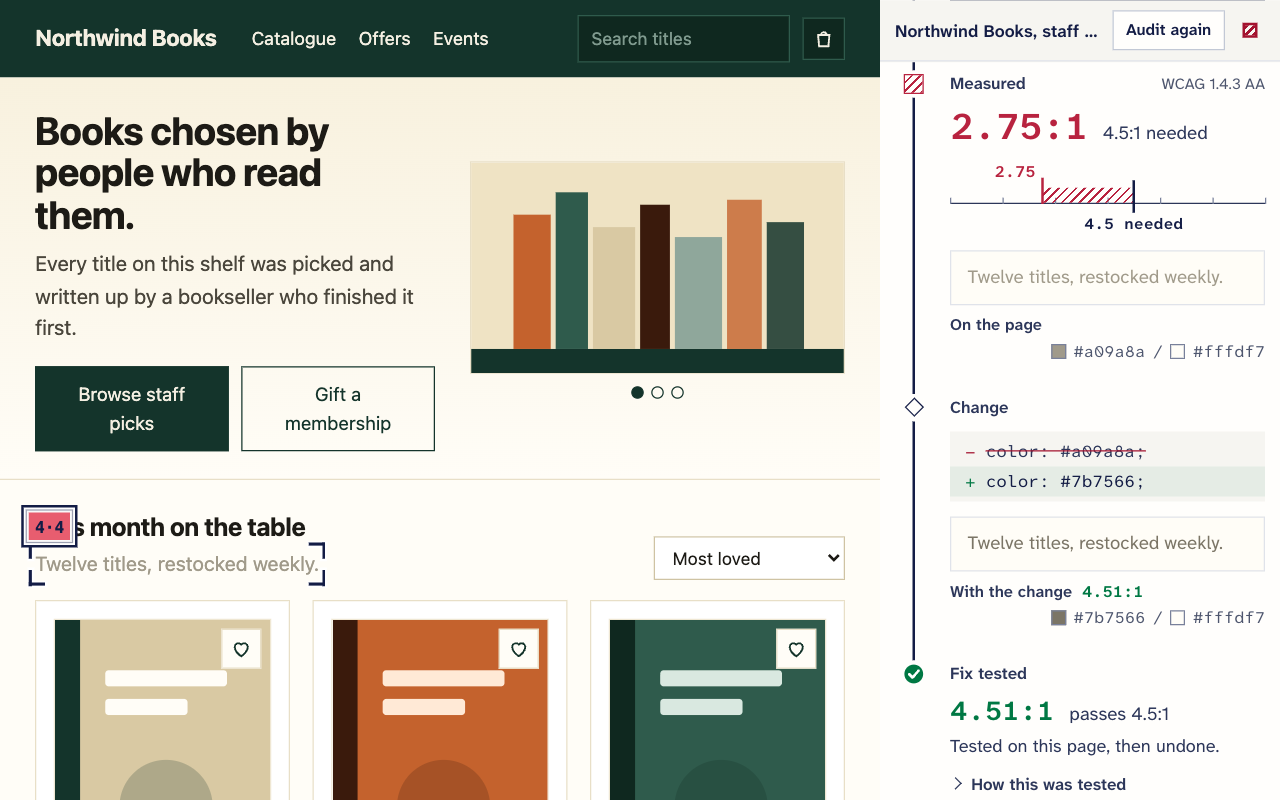
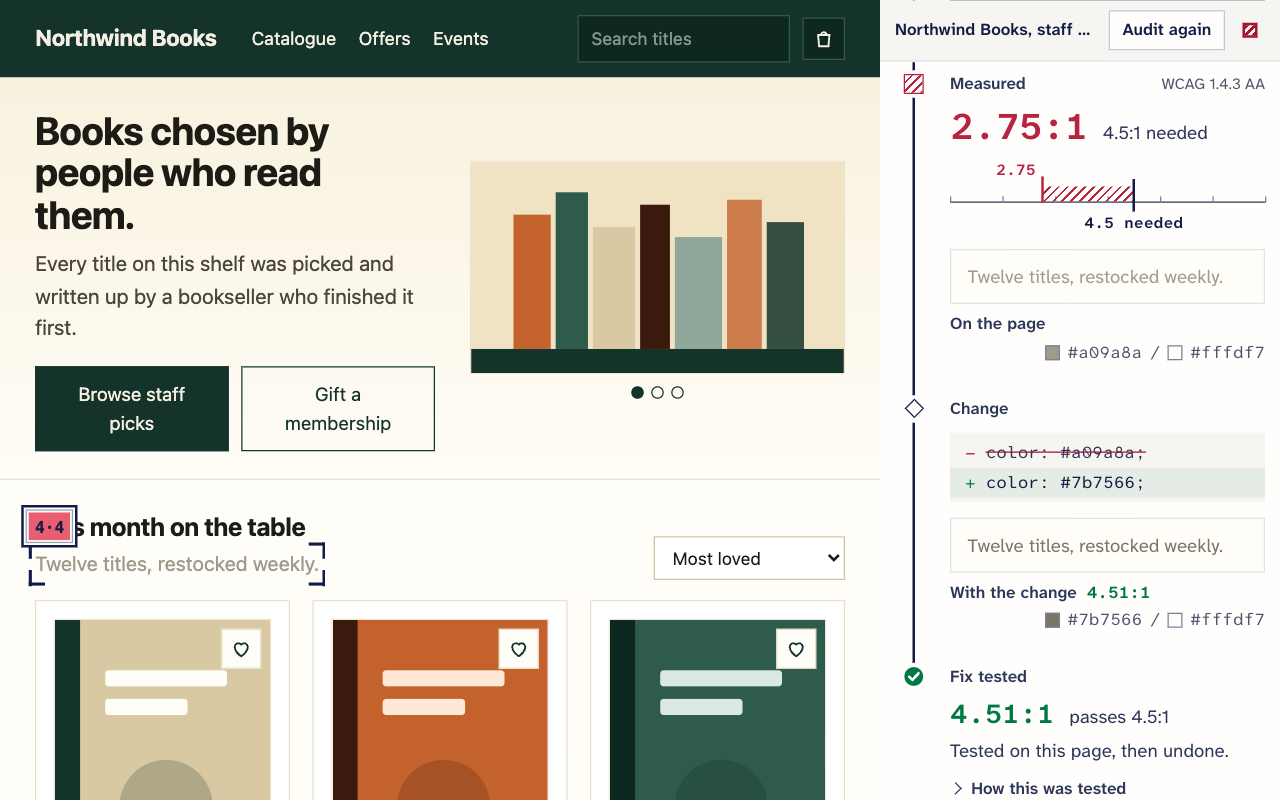
chore(extension): release 1.7.0
Bumps the extension to 1.7.0. It ships the finishing pass from #92 to the
panel: authored finding titles in both languages, a status only where it
tells something, the brand heading every state with an Audit this tab
button in the idle one, the standing in the bar only after the summary
scrolls away, one text scale, and focus rings limited to the current
element and its neighbors.

STORE-LISTING.md gets the new version and a note of what changed. The
three store screenshots are regenerated. The store descriptions do not
mention any of this and stay as they are.

diff --git a/extension/STORE-LISTING.md b/extension/STORE-LISTING.md
@@ -6,7 +6,7 @@ submitted automatically.
 ## Basics
 
 - **Item name:** AccessCheck
-- **Version:** 1.6.0
+- **Version:** 1.7.0
 - **Category:** Developer Tools
 - **Default language:** English (United States)
 - **Visibility:** Public
@@ -149,6 +149,38 @@ Certifications to accept, all of which the code supports:
 > Clicking the toolbar icon runs the whole audit, including the rules, the
 > extension's own checks and the fix verification, without attaching the
 > debugger at all.
+
+## What changed in 1.7.0
+
+- Findings have titles of their own, in English and Portuguese, instead of
+  axe-core's rule sentences: "Text below the minimum contrast" rather than
+  "Elements must meet minimum color contrast ratio thresholds". Manual reviews
+  and the checks that passed use the name of the check, such as "Text
+  contrast".
+- A finding row shows a status only when it tells something: fix tested, still
+  fails or audit again to confirm, always on its own line. The violet "needs a
+  person" mark no longer repeats on findings to fix, where it read like a
+  manual review.
+- The evidence step names the automated check instead of repeating axe-core's
+  description. For a manual review it says why the check could not be settled,
+  and the next step lists only how to check.
+- A finding with several elements leads with the first element of its largest
+  fix group, the same one the web report shows, so the measured value in the
+  row and the note on how the fix was tested speak of the same element.
+- Every state of the panel is headed by the AccessCheck mark. "Nothing audited
+  yet" has an Audit this tab button, and the running state has a title.
+- The standing appears in the bar only after the summary scrolls away, so the
+  page title is no longer cut short beside a copy of the heading.
+- The panel says once that the keyboard is not in the count until it is
+  checked, and the coverage note no longer repeats the list of checks under it.
+- With a focus finding open, hatched rings are drawn on the current element and
+  the ones beside it, instead of on every element at once.
+- The panel's text keeps to one scale, and the impact of a finding is no longer
+  set smaller than the text below it.
+- Smaller things: focus brackets clear the neighboring tags, suggested code
+  wraps between words, the open finding has a hairline above and below, hovered
+  rows show a tint, and a raw selector is quieter when an element could not be
+  named.
 
 ## What changed in 1.6.0
 
